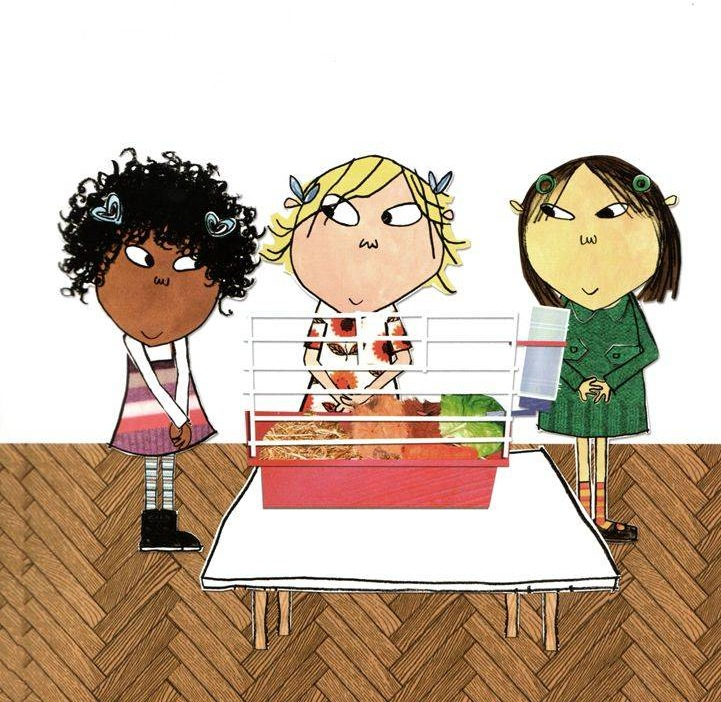
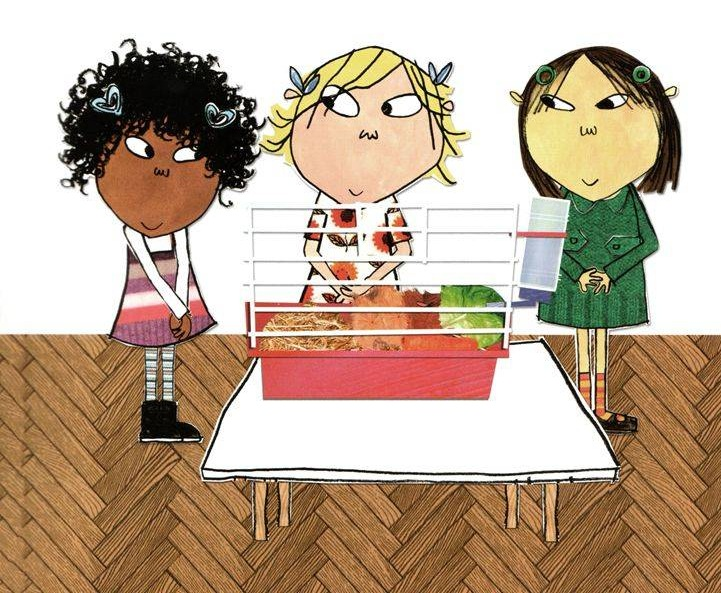
Tighten story film layout, p05 plate and docs
- reserve the caption strip under the text column
- crop p05 to the illustration (no white page top)
- refresh reader screenshots and 7.9 min render timing

diff --git a/book2real/storyfilm.py b/book2real/storyfilm.py
@@ -142,9 +142,9 @@ def _text_panel(page: dict, bg: np.ndarray, theme: dict) -> np.ndarray:
     # scene caption at the bottom, kept quiet
     scene = (page.get("scene") or "").strip()
     if scene:
-        d.line((x0, H - 118, x0 + 520, H - 118), fill=(120, 95, 70, 42), width=1)
+        d.line((x0, H - 76, x0 + 520, H - 76), fill=(120, 95, 70, 42), width=1)
         cap = scene if len(scene) <= 44 else scene[:44] + "…"
-        d.text((x0, H - 104), cap, font=_font(14), fill=soft)
+        d.text((x0, H - 62), cap, font=_font(14), fill=soft)
     return np.asarray(img)
 
 

diff --git a/docs/READER.md b/docs/READER.md
@@ -106,7 +106,7 @@ pages/*.jpg
 | 阅读页 | `/` 首屏 < 1 s；切页即时 |
 | 朗读首响 | edge-tts 首次约 1 s（之后命中缓存） |
 | 成片 | **210.5 s / 1280×720 / 24fps / 带旁白** |
-| 整本视频首渲 | **约 10.6 分钟**（23 页，单进程） |
+| 整本视频首渲 | **约 7.9 分钟**（23 页，单进程） |
 | 单页视频 | 约 20–25 s |
 
 **待优化**：整本视频渲染目前是单进程逐帧 PIL 合成，是最大的耗时项。下一步按页并行（`ProcessPoolExecutor`）预计可压到 3–5 分钟；TTS 命中缓存后不再走网络。
@@ -140,3 +140,26 @@ pages/*.jpg
 4. **问答是"预置解释"**：还没有自由问答/ASR；接口层已按 `实体 → 本页上下文 → 回答` 预留。
 5. **TTS 依赖网络**：离线场景回退 SAPI 或预生成音频包。
 6. **多音字/轻声**：pypinyin 已覆盖大部分，仍需要人工校订表处理书名、人名。
+
+## 10 产品判断（为什么这样做）
+
+面向低龄阅读，真正稀缺的不是"生成一段炫酷视频"，而是三件很土但很硬的事：
+
+1. **可读**：字要够大、拼音要准、换行要按词，孩子读得下去。
+2. **可问**：任何一个字、任何一个人物都能点，回答要贴着这一页，而不是百科。
+3. **可信**：画面必须是原书的画，不能每一页重绘成另一个角色；人物卡就是"锚"。
+
+由此得到的取舍：
+
+- **不做全页生成**，做"文字/插图/人物"的重构；插画只清字、不重绘。
+- **视频不是独立产品**，是同一份 reader 包的另一种输出；一次生产，两种交付。
+- **交互先预置、再自由问答**：先把"点击命中率 / 首响 / 解释准确"做稳，再接 ASR + VLM，否则现场必然翻车。
+- **离线优先**：OCR、拼音、排版、2.5D 全部本地；只有 TTS 可联网，断网自动降级。
+
+可继续的产品化方向：
+
+- **家长报告**：读了多久、点了哪些字、问了什么，形成"本周识字卡"。
+- **老师模式**：把每页的 `words/scene` 导出成课堂提问单和板书。
+- **角色一致性评测**：用人物卡裁图做 CLIP/DINO 相似度，量化"跨页一致率"。
+- **I2V 高光镜头**：只对 2–4 个跨页做 I2V，人物卡作参考图，其余镜头保持确定性 2.5D。
+- **语音伴读**：ASR + 本页实体索引 + 限长回答 + TTS，首响目标 ≤1.5 s。
